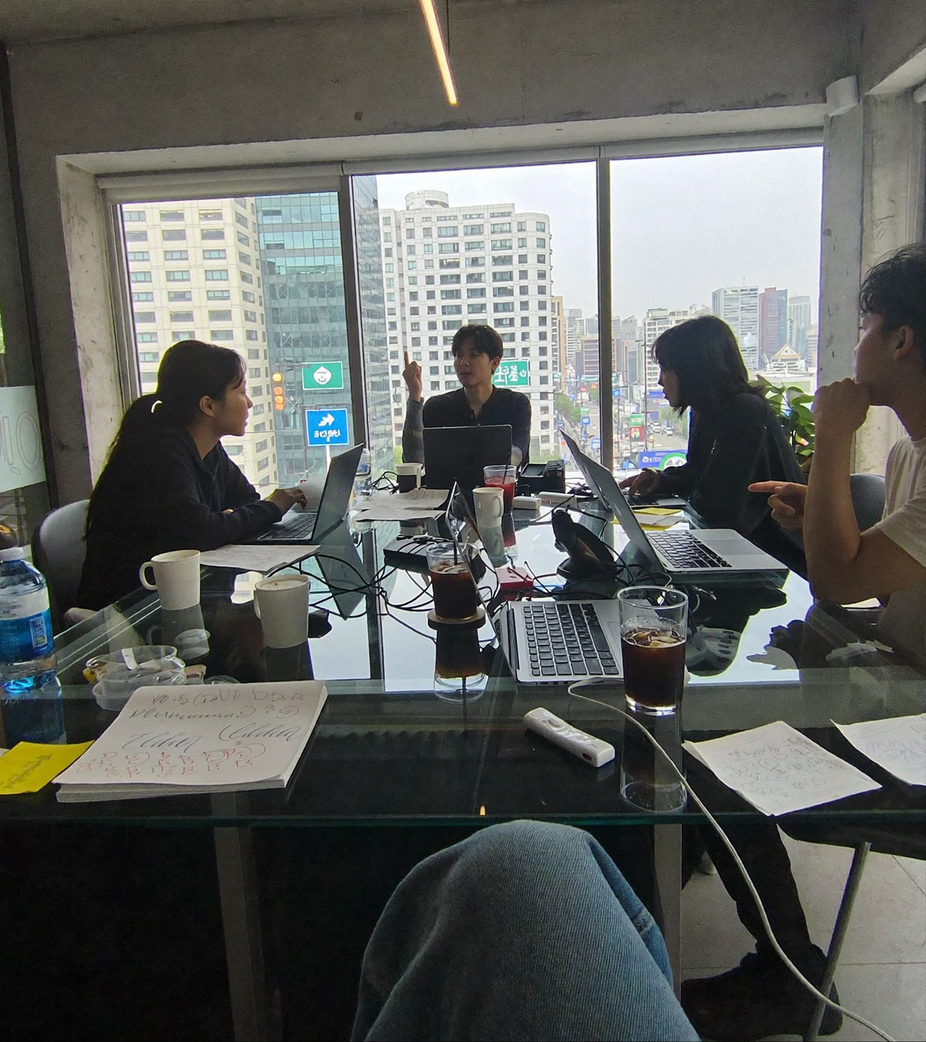
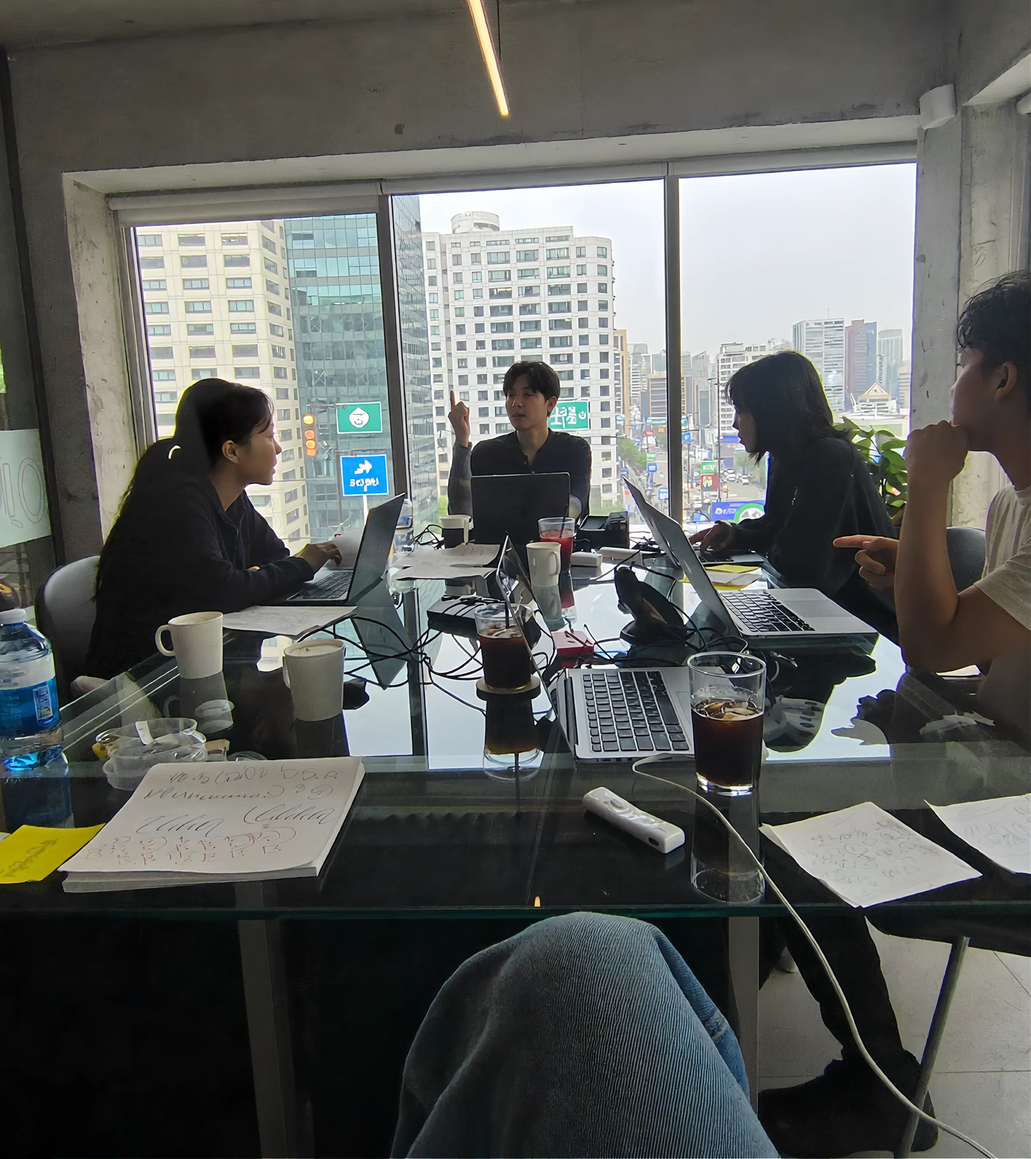
Restore transparent d03, replay hx14 captions, new photos, inquiry email
- d03-stable: back to a transparent background (as before 11/07) so the glow behind it shows without a black box; high-res from original render
- hx14 captions: reveal plays every time the section scrolls into view instead of once
- s15-photo-1/2/3: replaced with the enhanced photos (2400px)
- Shop info: inquiry email -> contact@hin-design.com

Claude-Session: https://claude.ai/code/session_01877NMfYCzRSJ6EX6AActtj

diff --git a/index.html b/index.html
@@ -2943,9 +2943,9 @@ html[data-view="shop"] #navShop span, html[data-view="shop"] #navShop .nav-sq{co
 <section class="hx15" id="hx15" aria-label="어디서든 이어지는 작업">
   <div class="hx15-box">
     <div class="hx15-roll" aria-roledescription="사진 롤링">
-      <img class="on" src="assets/s15-photo-1.webp" alt="잔디밭에 앉아 노트북으로 함께 작업하는 사람들" loading="lazy" decoding="async">
-      <img src="assets/s15-photo-2.webp?v=2" alt="창가 회의실에서 노트북을 펼치고 회의하는 팀" loading="lazy" decoding="async">
-      <img src="assets/s15-photo-3.webp?v=2" alt="카페 테이블에서 노트북으로 작업하는 사람들" loading="lazy" decoding="async">
+      <img class="on" src="assets/s15-photo-1.webp?v=3" alt="잔디밭에 앉아 노트북으로 함께 작업하는 사람들" loading="lazy" decoding="async">
+      <img src="assets/s15-photo-2.webp?v=3" alt="창가 회의실에서 노트북을 펼치고 회의하는 팀" loading="lazy" decoding="async">
+      <img src="assets/s15-photo-3.webp?v=3" alt="카페 테이블에서 노트북으로 작업하는 사람들" loading="lazy" decoding="async">
     </div>
     <div class="hx15-panel">
       <i class="hx15-sq" aria-hidden="true"></i>
@@ -3017,7 +3017,7 @@ html[data-view="shop"] #navShop span, html[data-view="shop"] #navShop .nav-sq{co
       <div class="hxp-rise">
         <div class="hxp-img on" data-i="0"><img class="cover" src="assets/d01-quick.webp?v=2" alt="펼쳐진 HIN-001 본체와 분리된 마우스패드, 라이트 모듈" loading="lazy" decoding="async"></div>
         <div class="hxp-img" data-i="1"><img class="cover" src="assets/d02-mark.webp?v=2" alt="HIN-001 상단 모듈에 각인된 HIN 마크" loading="lazy" decoding="async"></div>
-        <div class="hxp-img" data-i="2"><i class="hxp-glow" aria-hidden="true"></i><img class="d03" src="assets/d03-stable.webp?v=2" alt="노트북을 올린 HIN-001 정면" loading="lazy" decoding="async"></div>
+        <div class="hxp-img" data-i="2"><i class="hxp-glow" aria-hidden="true"></i><img class="d03" src="assets/d03-stable.webp?v=3" alt="노트북을 올린 HIN-001 정면" loading="lazy" decoding="async"></div>
       </div>
       <i class="hxp-fade" aria-hidden="true"></i>
       <div class="hxp-txt">
@@ -3111,7 +3111,7 @@ html[data-view="shop"] #navShop span, html[data-view="shop"] #navShop .nav-sq{co
 </section>
 
 <section class="hx-note" aria-label="배송 및 보증 안내">
-  <p><span><b>배송</b> 주문 후 2–3 영업일 이내 출고</span><i aria-hidden="true">·</i><span><b>보증</b> 구입일로부터 12개월 품질 보증</span><i aria-hidden="true">·</i><span><b>반품</b> 수령 후 14일 이내, 미개봉 기준</span><i aria-hidden="true">·</i><span><b>문의</b> <a href="mailto:hello@hin.co.kr">hello@hin.co.kr</a></span></p>
+  <p><span><b>배송</b> 주문 후 2–3 영업일 이내 출고</span><i aria-hidden="true">·</i><span><b>보증</b> 구입일로부터 12개월 품질 보증</span><i aria-hidden="true">·</i><span><b>반품</b> 수령 후 14일 이내, 미개봉 기준</span><i aria-hidden="true">·</i><span><b>문의</b> <a href="mailto:contact@hin-design.com">contact@hin-design.com</a></span></p>
 </section>
 
 </div>
@@ -4152,7 +4152,7 @@ html[data-view="shop"] #navShop span, html[data-view="shop"] #navShop .nav-sq{co
   const s14=document.getElementById('hx14');
   if(s14){
     if(!('IntersectionObserver' in window)||rm) s14.classList.add('is-in');
-    else new IntersectionObserver((es,o)=>es.forEach(e=>{ if(e.isIntersecting){ s14.classList.add('is-in'); o.disconnect(); } }),{threshold:.45}).observe(s14);
+    else new IntersectionObserver(es=>es.forEach(e=>{ if(e.intersectionRatio>=.45) s14.classList.add('is-in'); else if(!e.isIntersecting) s14.classList.remove('is-in'); }),{threshold:[0,.45]}).observe(s14); // replays every time it scrolls back into view
   }
 
   // 3) website 15: vertical photo rolling + product zoom on scroll
